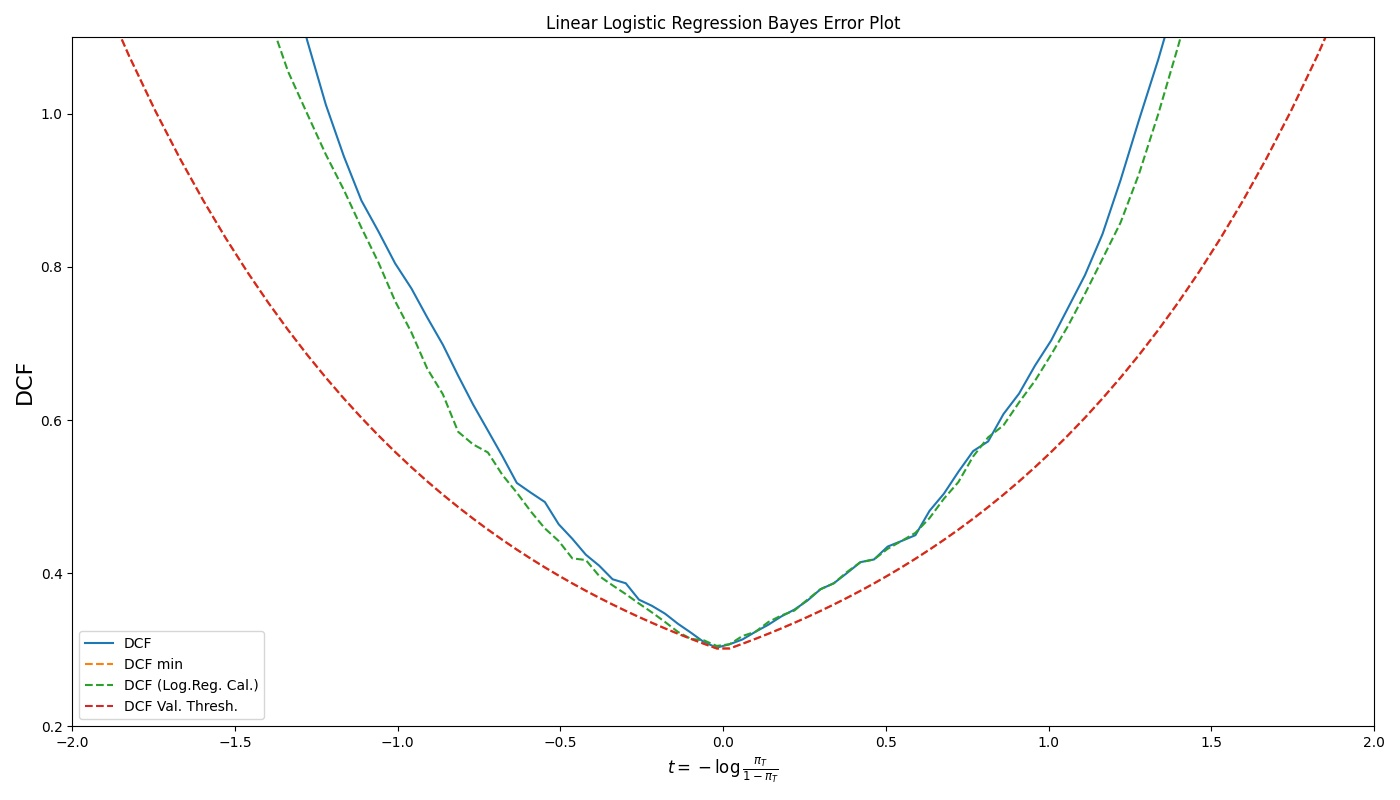
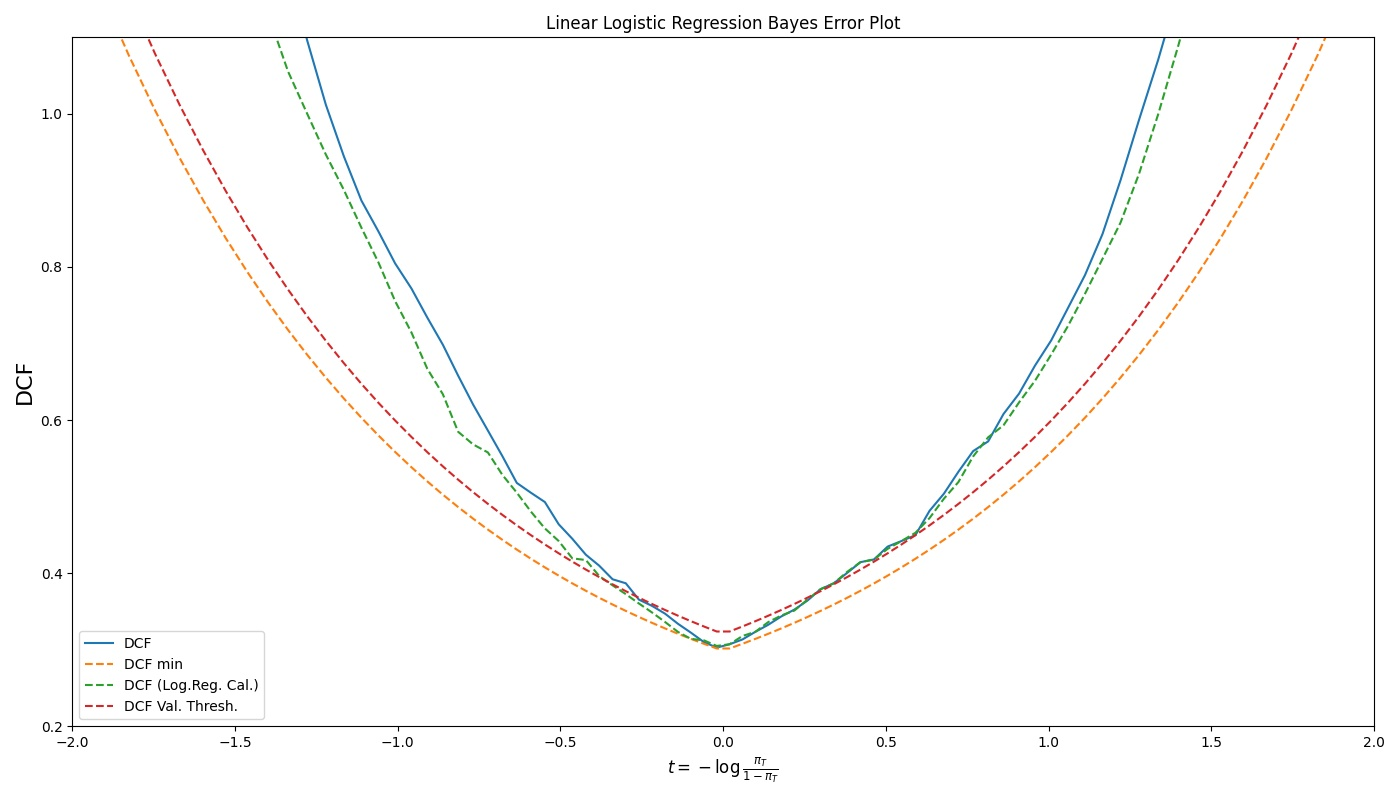
updated BEPs

diff --git a/code/model_evaluation.py b/code/model_evaluation.py
@@ -17,7 +17,7 @@ def plot_eval(scores, tel, calibrated, t, tag, filename):
     plt.plot(x, dcfs, linestyle='--', label="DCF (Log.Reg. Cal.)")
     a = np.linspace(.01, .99, 100)
     tups = [ utils.DCF(scores > t, tel, prior_t=p) for p in a ]
-    tups = [ a for a, _ in tups]
+    tups = np.array([ a for a, _ in tups])
     plt.plot(x, tups, linestyle='--', label="DCF Val. Thresh.")
     plt.ylim((0.2, 1.1))
     plt.xlim((-2, 2))
@@ -47,8 +47,10 @@ trscores, _, _ = logreg_scores(trdataset, w, b)
 tescores, _, _ = logreg_scores(tedataset, w, b)
 
 tescores_cal = calibration.calibrate_scores(trscores, trlabels, tescores, p)
+
+_, t = utils.minDCF(trscores, trlabels)
+mindcf, _ = utils.minDCF(tescores, telabels)
 actdcf, _ = utils.DCF(tescores > 0, telabels)
-mindcf, t = utils.minDCF(tescores, telabels)
 print(f"logreg | actDCF {actdcf:.3f}, minDCF {mindcf:.3f}")
 plot_eval(tescores, telabels, tescores_cal, t, 'Linear Logistic Regression', 'logreg')
 # LogRegQuad
@@ -71,7 +73,8 @@ tescores, _, _ = logreg_scores(tedataset, w, b)
 
 tescores_cal = calibration.calibrate_scores(trscores, trlabels, tescores, p)
 actdcf, _ = utils.DCF(tescores_cal > 0, telabels)
-mindcf, t = utils.minDCF(tescores_cal, telabels)
+mindcf, _ = utils.minDCF(tescores_cal, telabels)
+_, t = utils.minDCF(trscores, trlabels)
 print(f"logregquad | norm,calibrated | actDCF {actdcf:.3f}, minDCF {mindcf:.3f}")
 plot_eval(tescores, telabels, tescores_cal, t, 'Quadratic Logistic Regression', 'logregquad')
 
@@ -97,6 +100,7 @@ tescores, _, _ = SVM_lin_scores(tedataset, w, b)
 
 tescores_cal = calibration.calibrate_scores(trscores, trlabels, tescores, p)
 actdcf, _ = utils.DCF(tescores_cal > 0, telabels)
-mindcf, t = utils.minDCF(tescores_cal, telabels)
+mindcf, _ = utils.minDCF(tescores_cal, telabels)
+_, t = utils.minDCF(trscores, trlabels)
 print(f"linsvm | norm,calibrated | actDCF {actdcf:.3f}, minDCF {mindcf:.3f}")
 plot_eval(tescores, telabels, tescores_cal, t, 'Linear SVM', 'linsvm')
